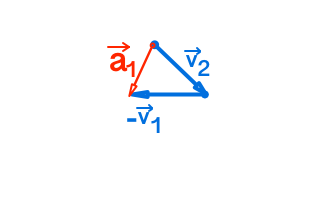
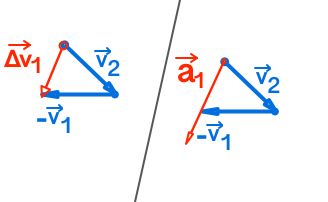
corrections sur le cours cinematique

diff --git a/content/docs/PC_1ere/meca/page3.md b/content/docs/PC_1ere/meca/page3.md
@@ -32,7 +32,7 @@ Les axes sont supportés par les vecteurs $\overrightarrow{i}$ et $\overrightarr
 On considère le mouvement comme une succession continue de petits mouvements. Les positions sont alors marquées de manière discrète (discrétisation du temps), espacés avec des intervalles de temps égaux, &#x394;t.
 
 <figure><div>
-  <img src="../images/cartesien.png">
+  <img src="../images/cartesien2.png">
 <figcaption>exemple de trajectoire dans le<br>repère cartésien (O,x,y)</figcaption></div>
 </figure>
 
@@ -48,7 +48,12 @@ $$\overrightarrow{v_n} \begin{pmatrix}
  vx_n\\\vy_n
 \end{pmatrix}$$
 
-Avec:
+
+
+
+* Au *moment n*: en une durée &#x394;t, la coordonnée x<sub>n</sub> varie de x<sub>n</sub> à x<sub>n+1</sub>. Alors v<sub>xn</sub> représente le taux de variation de cette coordonnée selon l'axe des x.
+* Au *moment n*: en une durée &#x394;t, la coordonnée y<sub>n</sub> varie de y<sub>n</sub> à y<sub>n+1</sub>. D'où la loi sur v<sub>yn</sub>:
+
 
 <figure><div>
   <img src="../images/equation1.svg">
@@ -65,7 +70,7 @@ On a alors des suites de fonctions v<sub>xn</sub> et v<sub>yn</sub>. On peut uti
 
 
 
-On peut alors tracer le vecteur $\overrightarrow{v_n}$ à partir de ses coordonnées, v<sub>xn</sub> et v<sub>yn</sub>, de sommet M<sub>n</sub>, directement sur la trajectoire:
+Et on peut tracer le vecteur $\overrightarrow{v_n}$ à partir de ses coordonnées, v<sub>xn</sub> et v<sub>yn</sub>, de sommet M<sub>n</sub>, directement sur la trajectoire:
 
 <figure>
   <img src="../images/cartesien3.png">
@@ -77,6 +82,9 @@ On peut alors tracer le vecteur $\overrightarrow{v_n}$ à partir de ses coordonn
 ## Coordonnées du vecteur accélération
 > Définition: l'accélération est le taux de variation de la vitesse, en fonction du temps. Il s'agit d'un vecteur. Au moment n, c'est le vecteur $\overrightarrow{a_n}$
 
+* Au *moment n*: en une durée &#x394;t, la vitesse v<sub>xn</sub> varie de v<sub>xn</sub> à v<sub>x n+1</sub>. Alors a<sub>xn</sub> représente le taux de variation de cette coordonnée selon l'axe des x.
+* Au *moment n*: en une durée &#x394;t, la vitesse v<sub>yn</sub> varie de v<sub>yn</sub> à v<sub>y n+1</sub>. D'où la loi sur a<sub>yn</sub>:
+
 <figure><div>
   <img src="../images/equation2.svg">
 </div>
@@ -86,7 +94,7 @@ On peut alors tracer le vecteur $\overrightarrow{v_n}$ à partir de ses coordonn
 * Pour un mouvement décéléré dans la direction (Ox), a<sub>x</sub> est négatif, et la vitesse v<sub>x</sub> diminue au cours du temps.
 
 # Etude par une méthode géométrique
-On peut ignorer les coodonnées de position, et repérer les directions avec des vecteurs unitaires $\overrightarrow{u_1}$, $\overrightarrow{u_2}$, etc...
+On peut ignorer les coordonnées de position, et repérer les directions avec des vecteurs unitaires $\overrightarrow{u_1}$, $\overrightarrow{u_2}$, etc...
 
 Alors le déplacement de M<sub>1</sub> vers M<sub>2</sub> est repéré par le vecteur $\overrightarrow{M_1M_2}$ tel que:
 
@@ -100,11 +108,26 @@ $$\overrightarrow{M_1M_2} = M_1M_2.\overrightarrow{u_1}$$
 ## Vitesse
 La definition de la vitesse, au point M<sub>n</sub>, sera prise comme le taux de variation de la position, entre les points M<sub>n</sub> et M<sub>n+1</sub>:
 
-$$\overrightarrow{v_n} = \tfrac{\overrightarrow{M\textrm{n+1}M_n}}{\Delta t}$$
 
-Mais, pour des mouvements courbes, on peut prendre la vitesse en M<sub>n+1</sub> comme le taux de variation de la position, entre les points M<sub>n</sub> et M<sub>n+2</sub>. Cela donne:
+<figure><div>
+  <img src="../images/equation6.svg">
+</div>
+</figure>
 
-$$\overrightarrow{v_\textrm{n+1}} = \tfrac{\overrightarrow{M\textrm{n+2}M_n}}{2.\Delta t}$$
+<!--
+$$\overrightarrow{v_n} = \tfrac{\overrightarrow{M\textrm{n} M\textrm{n+1}}}{\Delta t}$$
+-->
+
+Mais, pour des mouvements courbes, on peut prendre la vitesse en M<sub>n+1</sub> comme le taux de variation de la position, entre les points M<sub>n</sub> et M<sub>n+2</sub>. La **durée** est alors de **2.&#x394;t**. Cela donne:
+
+<figure><div>
+  <img src="../images/equation5.svg">
+</div>
+</figure>
+
+<!--
+$$\overrightarrow{v_\textrm{n+1}} = \tfrac{\overrightarrow{M\textrm{n} M\textrm{n+2}}}{2.\Delta t}$$
+-->
 
 *En pratique:* 
 On mesure le segment M<sub>1</sub>M<sub>2</sub>. On divise par &#x394;t. 
@@ -114,7 +137,7 @@ On mesure le segment M<sub>1</sub>M<sub>2</sub>. On divise par &#x394;t.
 </div>
 </figure>
 
-Le vecteur $\overrightarrow{v_1}$ est alors portée par la droite (M<sub>1</M><sub>2</sub>), de sens 1 vers 2. La longueur du vecteur depend de la valeur calculée, et de l'echelle utilisée (1cm <-> ... m/s).
+Le vecteur $\overrightarrow{v_1}$ est alors porté par la droite (M<sub>1</sub>M<sub>2</sub>), de sens 1 vers 2. La longueur du vecteur depend de la valeur calculée, et de l'echelle utilisée (1cm <-> ... m/s).
 
 <figure><div>
   <img src="../images/geom3.png">
@@ -124,11 +147,25 @@ Le vecteur $\overrightarrow{v_1}$ est alors portée par la droite (M<sub>1</M><s
 ## Accélération
 L'accélération au point M<sub>n</sub>, sera prise comme le taux de variation de la *vitesse*, entre les points M<sub>n</sub> et M<sub>n+1</sub>:
 
+<figure><div>
+  <img src="../images/equation4.svg">
+</div>
+</figure>
+
+<!--
 $$\overrightarrow{a_n} = \tfrac{\overrightarrow{v\textrm{n+1}}-\overrightarrow{v_n}}{\Delta t}$$
+-->
 
 Mais là aussi, pour des mouvements courbes, on peut avoir:
 
-$$\overrightarrow{a_\textrm{n+1}} = \tfrac{\overrightarrow{v\textrm{n+2}}-\overrightarrow{v_n}}{2.\Delta t}$$
+<figure><div>
+  <img src="../images/equation3.svg">
+</div>
+</figure>
+
+<!--
+$$\overrightarrow{a_{n+1}} = \tfrac{\overrightarrow{v_{n+2}}-\overrightarrow{v_n}}{2.\Delta t}$$
+-->
 
 *En pratique:*
 En prenant la première définition. Au point M<sub>1</sub>:
@@ -138,10 +175,13 @@ En prenant la première définition. Au point M<sub>1</sub>:
 </div>
 </figure>
 
-On fait la somme géométrique des vecteurs $\overrightarrow{v_2}$ et -$\overrightarrow{v_1}$. On obtient alors le vecteur $\overrightarrow{a_1}$:
+On fait la somme géométrique des vecteurs $\overrightarrow{v_2}$ et -$\overrightarrow{v_1}$. On obtient alors le vecteur $\overrightarrow{\Delta v_1}$. (à gauche sur l'image). 
+
+Pour tracer les vecteur $\overrightarrow{a_1}$, on utilise alors l'echelle proposée sur le document *(1cm <-> ...m/s<sup>2</sup>)*: à droite sur le schéma.
 
 <figure><div>
   <img src="../images/geom5.png">
+  <figcaption>à gauche: vecteur <b>&#x394;v</b> / à droite: vecteur <b>a</b></figcaption>
 </div>
 </figure>
 
